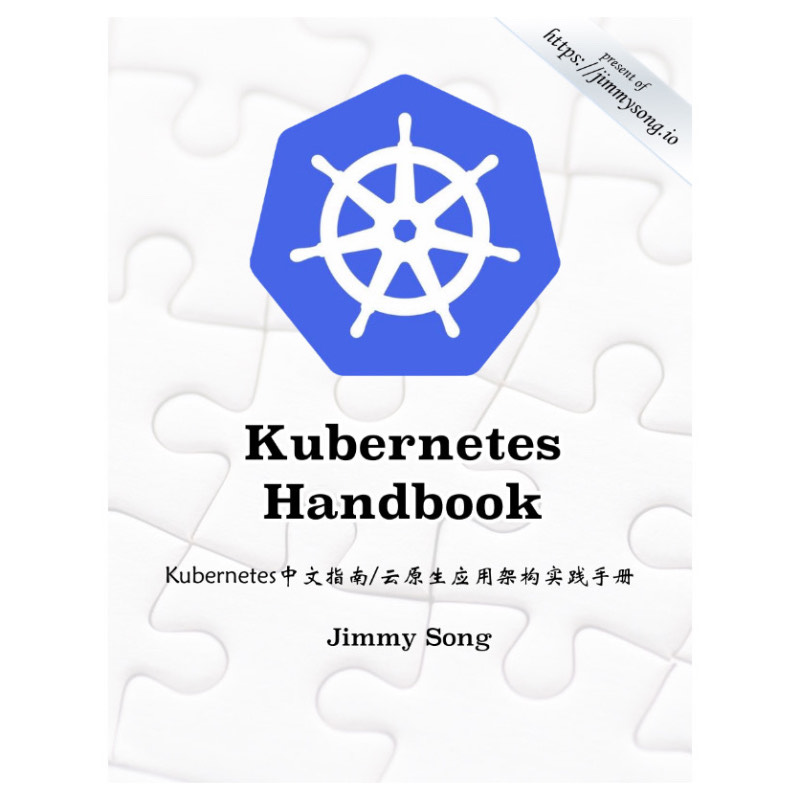
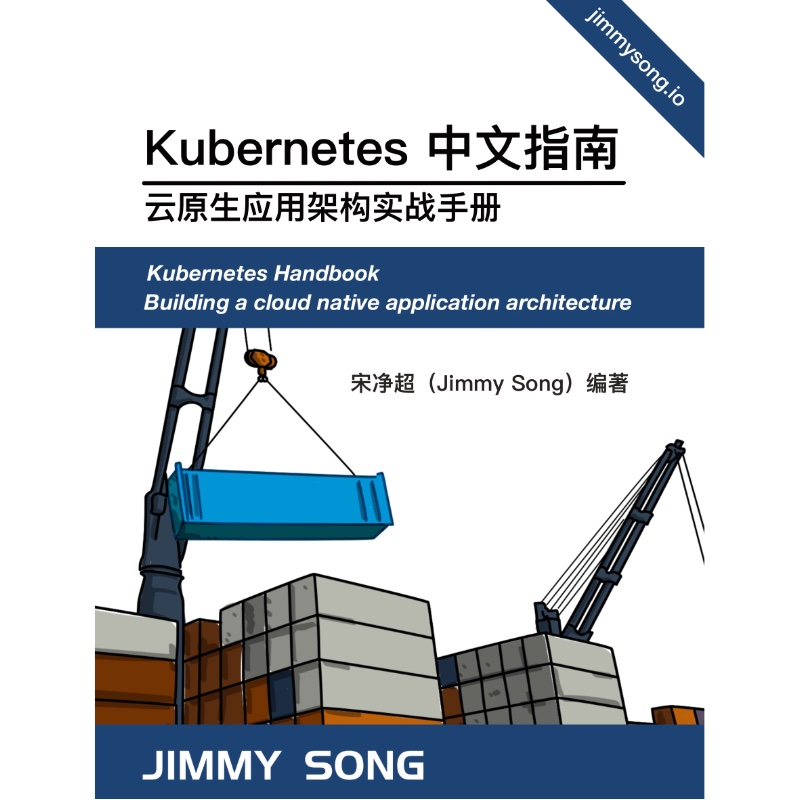
update book cover

diff --git a/content/zh/book/istio-handbook/index.md b/content/zh/book/istio-handbook/index.md
@@ -1,12 +1,12 @@
 ---
-title: "Istio Handbook"
-date: 2017-03-04T12:00:00+08:00
+title: "Istio 服务网格"
+date: 2022-03-09T12:00:00+08:00
 draft: false
-subtitle : "Istio 服务网格进阶实战"
+subtitle : "云原生应用网络构建指南"
 # page title background image
 bg_image: "images/backgrounds/page-title.jpg"
 # meta description
-description : "本书起源于 [rootsongjc/istio-handbook](https://github.com/rootsongjc/istio-handbook) 及 ServiceMesher 社区创作的 [Istio 知识图谱](https://github.com/servicemesher/istio-knowledge-map)，集结社区力量合作创作而成。"
+description : "云原生应用网络构建指南"
 # book thumbnail
 image: "images/books/istio-handbook.jpg"
 # page banner
@@ -14,7 +14,7 @@ banner: "images/banner/istio.jpg"
 # taxonomy
 category: "电子书"
 # page count
-pages : "1000+"
+pages : "256"
 # book price
 price : "免费"
 # apply url
@@ -33,27 +33,34 @@ aliases:
 - "/posts/the-enterprise-path-to-service-mesh-architectures"
 ---
 
-### Istio Handbook——Istio 服务网格进阶实战
+## 关于本书
 
-Istio Service Mesh Advanced Practical - Master the Services in Post Kubernetes Era
+本书的主题包括：
 
-[Istio](https://istio.io/zh) 是由 Google、IBM、Lyft 等共同开源的 Service Mesh（服务网格）框架，于2017年初开始进入大众视野，作为云原生时代下承 Kubernetes、上接 Serverless 架构的重要基础设施层，地位至关重要。[ServiceMesher 社区](https://www.servicemesher.com/)作为中国最早的一批在研究和推广 Service Mesh 技术的开源社区决定整合社区资源，合作撰写一本开源电子书作为服务网格智库。
+- 服务网格概念解析
+- 控制平面和数据平面的原理
+- Istio 架构详解
+- 基于 Istio 的自定义扩展
+- 迁移到 Istio 服务网格
+- 构建云原生应用网络
 
-您可以通过以下地址阅读或参与本书：
+## 如何阅读本书
 
-- [GitHub](https://github.com/servicemesher/istio-handbook)
-- [Gitbook 在线浏览](https://www.servicemesher.com/istio-handbook)
+本书基于 Istio 1.11+ 版本编写，您可以通过以下地址参与到本书的编写或阅读本书：
 
-### 关于本书
+- [自行构建](https://github.com/rootsongjc/istio-handbook)
+- [在线浏览](https://jimmysong.io/istio-handbook/)（推荐）
 
-本书起源于 [rootsongjc/istio-handbook](https://github.com/rootsongjc/istio-handbook) 及 ServiceMesher 社区创作的 [Istio 知识图谱](https://github.com/servicemesher/istio-knowledge-map)，集结社区力量合作创作而成。
+书中部分内容来自 Tetrate 出品的 [Istio 基础教程](https://academy.tetrate.io/courses/istio-fundamentals-zh)，请访问 [Tetrate 学院](https://academy.tetrate.io/)，解锁全部教程及测试，获得 Tetrate 认证的 Istio 认证。
 
-本书基于 Istio 1.0+ 版本编写，包含但不限于 [Istio 知识图谱](https://github.com/servicemesher/istio-knowledge-map)中的主题。
+## 致谢
 
-### 版权
+感谢 [ServiceMesher](https://www.servicemesher.com) 及[云原生社区](https://cloudnative.to/)先后负责翻译了 [Envoy](https://cloudnative.to/envoy/) 及 [Istio](https://istio.io/latest/zh/) 官方文档，为本书的成书提供了大量参考资料。
 
-本书发行版权归属于电子工业出版社博文视点，未经授权请勿私自印刷发行。
+## 许可证
 
-### 参与本书
+本书所有内容支持使用[署名 - 非商业性使用 - 相同方式共享 4.0 (CC BY-NC-SA 4.0)](https://creativecommons.org/licenses/by-nc-sa/4.0/deed.zh)  协议共享。
 
-请参阅[本书写作规范](https://github.com/servicemesher/istio-handbook/blob/master/CODE_OF_CONDUCT.md)，加入 ServiceMesher 后进入 Slack channel 讨论。
+## 参与本书
+
+请参考 [Istio 文档样式指南](https://istio.io/latest/about/contribute/style-guide/)。

diff --git a/content/zh/book/kubernetes-handbook/index.md b/content/zh/book/kubernetes-handbook/index.md
@@ -1,8 +1,8 @@
 ---
-title: "Kubernetes Handbook"
-date: 2021-04-09T12:00:00+08:00
+title: "Kubernetes 中文指南"
+date: 2022-03-09T08:00:00+08:00
 draft: false
-subtitle : "从Kubernetes起开始实践云原生"
+subtitle : "云原生应用架构实战手册"
 # page title background image
 bg_image: "images/backgrounds/page-title.jpg"
 # meta description
@@ -91,8 +91,6 @@ aliases:
 - "/posts/the-next-stage-of-cloud-native-apps"
 - "/posts/running-spark-with-kubernetes-native-scheduler"
 ---
-
-### Kubernetes Handbook——Kubernetes中文指南/云原生应用架构实践手册
 
 本书起始于2017年3月，记录了本人从零开始学习和使用Kubernetes的心路历程，着重于经验分享和总结，同时也会有相关的概念解析，希望能够帮助大家少踩坑，少走弯路，还会指引大家关注Kubernetes生态周边，如微服务构建、DevOps、大数据应用、服务网格（Service Mesh）、云原生等领域。
 
